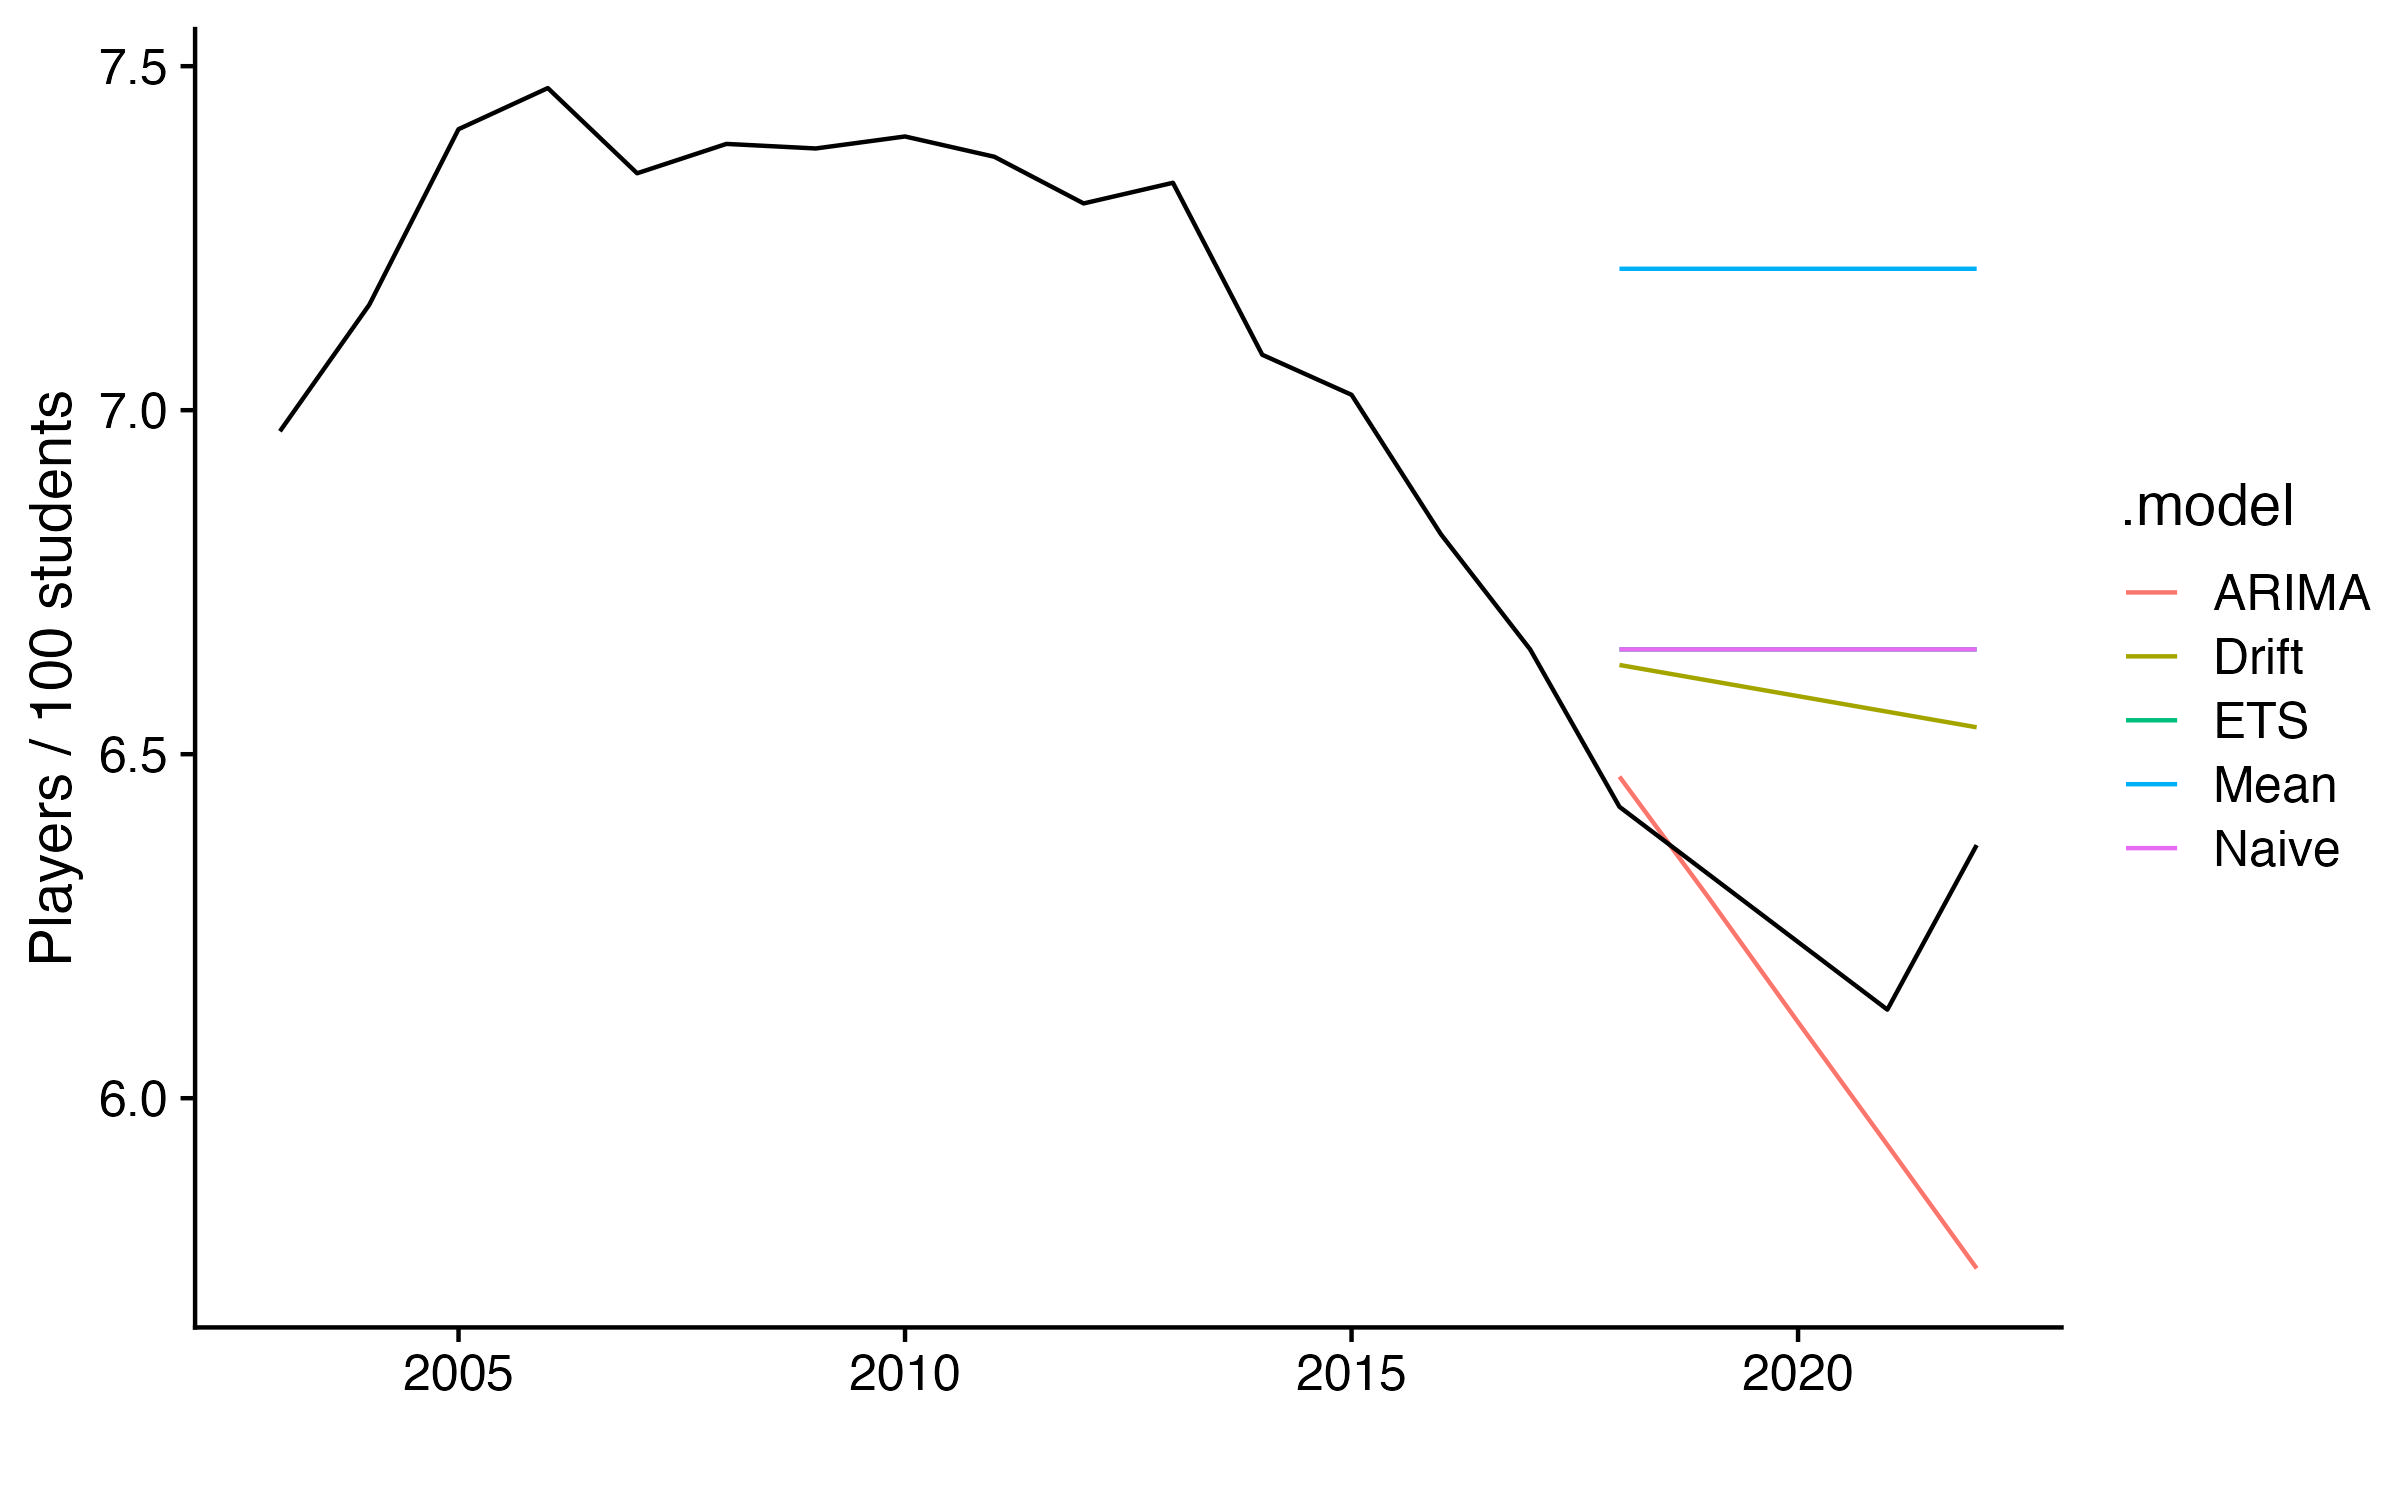
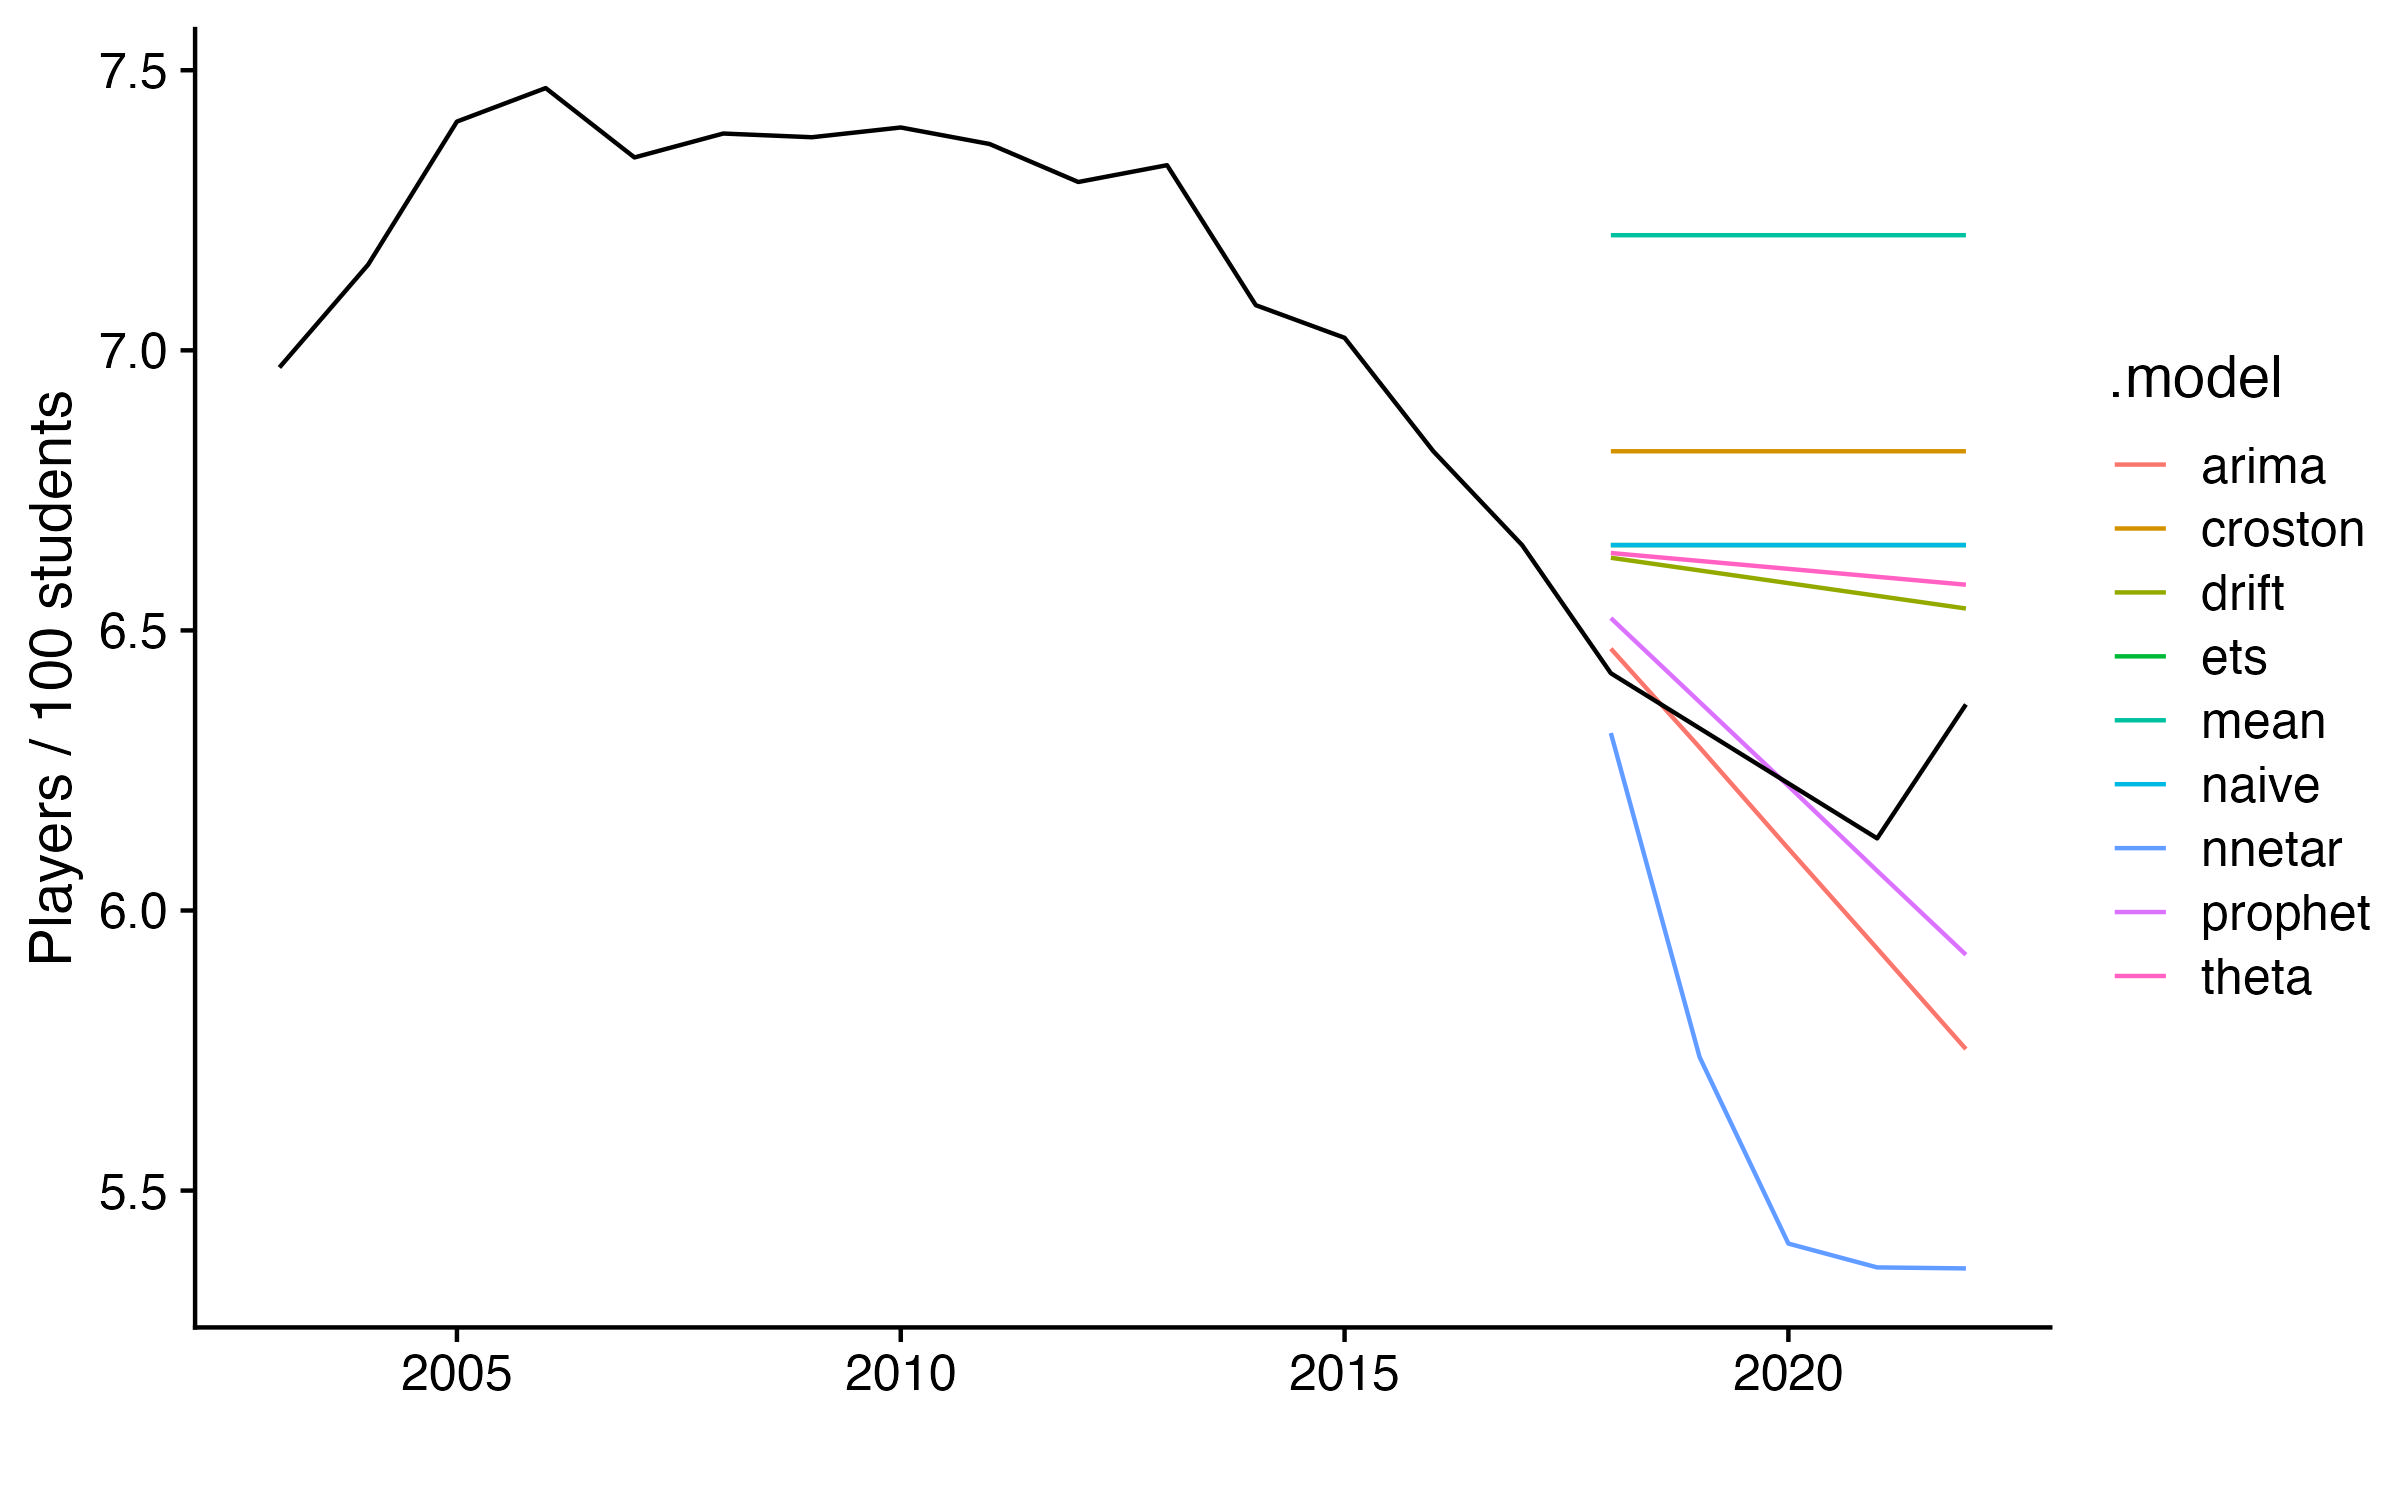
add forecast models

diff --git a/content/post/2024-10-05-forecasting-u-s-high-school-football-participation/index.html b/content/post/2024-10-05-forecasting-u-s-high-school-football-participation/index.html
@@ -77,20 +77,20 @@ Figure 2: The number of players per 100 students is shown with and without outli
 </div>
 <div id="modeling" class="section level1">
 <h1><a href="#modeling">Modeling</a></h1>
-<p>Five models were fit to the data: ARIMA, ETS, Naive, Drift, and Mean. The models forecast the final 5 years of the test data and were compared to the actual values.</p>
+<p>Nine models were fit to the data. Some of the model choices like “Mean” were included knowing that it was an unlikely candidate for a good fit. Other more sophisticated models like ARIMA, ETS, and prophet were included too. The models forecast the final 5 years of the test data and were compared to the actual values.</p>
 <div class="figure" style="text-align: center"><span style="display:block;" id="fig:unnamed-chunk-3"></span>
 <img src="forecast_models_compared.jpg" alt="Actual Data is show in black.  Models are shown in color.  The ARIMA model, shown in red, was the to performing model." width="100%" />
 <p class="caption">
 Figure 3: Actual Data is show in black. Models are shown in color. The ARIMA model, shown in red, was the to performing model.
 </p>
 </div>
-<p>The ARIMA model was the best performing model on several different metrics. When comparing different methods applied to a single time series the mean absolute error (MAE) is “popular as it is easy to both understand and compute. A forecast method that minimises the MAE will lead to forecasts of the median, while minimising the root mean squared error (RMSE) will lead to forecasts of the mean. Consequently, the RMSE is also widely used, despite being more difficult to interpret.”<span class="citation"><a href="#ref-hyndman_forecasting_2021">[1]</a></span> Here, the ARIMA model leads all other methods when measured by either RMSE or MAE. Two other common accuracy metrics are the mean absolute percentage error (MAPE) and mean absolute scaled error (MASE).</p>
+<p>The ARIMA model was the best performing model on several different metrics. When comparing different methods applied to a single time series the mean absolute error (MAE) is “popular as it is easy to both understand and compute. A forecast method that minimises the MAE will lead to forecasts of the median, while minimising the root mean squared error (RMSE) will lead to forecasts of the mean. Consequently, the RMSE is also widely used, despite being more difficult to interpret.”<span class="citation"><a href="#ref-hyndman_forecasting_2021">[1]</a></span> Here, the prophet model leads all other methods when measured by either RMSE or MAE. Two other common accuracy metrics are the mean absolute percentage error (MAPE) and mean absolute scaled error (MASE).</p>
 <div class="datatables html-widget html-fill-item" id="htmlwidget-1" style="width:100%;height:auto;"></div>
-<script type="application/json" data-for="htmlwidget-1">{"x":{"filter":"none","vertical":false,"data":[["1","2","3","4","5"],["ARIMA","Drift","Naive","ETS","Mean"],[0.2945523430253488,0.3054331470708264,0.372910561741164,0.3729266369475432,0.9170776282047581],[0.2012576640528476,0.2899169431600995,0.3578562790011084,0.3578730304275712,0.9110599351942072],[3.192427507720728,4.631618164658096,5.71479845764783,5.715064661146497,14.50597508252588],[1.88479641949751,2.715098672099923,3.351356762139901,3.351513640779863,8.532159567104841]],"container":"<table class=\"display\">\n  <thead>\n    <tr>\n      <th> <\/th>\n      <th>.model<\/th>\n      <th>RMSE<\/th>\n      <th>MAE<\/th>\n      <th>MAPE<\/th>\n      <th>MASE<\/th>\n    <\/tr>\n  <\/thead>\n<\/table>","options":{"dom":"t","columnDefs":[{"targets":2,"render":"function(data, type, row, meta) {\n    return type !== 'display' ? data : DTWidget.formatRound(data, 3, 3, \",\", \".\", null);\n  }"},{"targets":3,"render":"function(data, type, row, meta) {\n    return type !== 'display' ? data : DTWidget.formatRound(data, 3, 3, \",\", \".\", null);\n  }"},{"targets":4,"render":"function(data, type, row, meta) {\n    return type !== 'display' ? data : DTWidget.formatRound(data, 3, 3, \",\", \".\", null);\n  }"},{"targets":5,"render":"function(data, type, row, meta) {\n    return type !== 'display' ? data : DTWidget.formatRound(data, 3, 3, \",\", \".\", null);\n  }"},{"className":"dt-right","targets":[2,3,4,5]},{"orderable":false,"targets":0},{"name":" ","targets":0},{"name":".model","targets":1},{"name":"RMSE","targets":2},{"name":"MAE","targets":3},{"name":"MAPE","targets":4},{"name":"MASE","targets":5}],"order":[],"autoWidth":false,"orderClasses":false},"selection":{"mode":"multiple","selected":null,"target":"row","selectable":null}},"evals":["options.columnDefs.0.render","options.columnDefs.1.render","options.columnDefs.2.render","options.columnDefs.3.render"],"jsHooks":[]}</script>
+<script type="application/json" data-for="htmlwidget-1">{"x":{"filter":"none","vertical":false,"data":[["1","2","3","4","5","6","7","8","9"],["prophet","arima","drift","theta","naive","ets","croston","nnetar","mean"],[0.2073286226781192,0.2945523430253488,0.3054331470708264,0.3303674174206771,0.372910561741164,0.3729266369475432,0.5357105574971085,0.7254262233629041,0.9170776282047581],[0.1309778659251871,0.2012576640528476,0.2899169431600995,0.3154109702955983,0.3578562790011084,0.3578730304275712,0.5253423938502122,0.6576044895750359,0.9110599351942072],[2.062608738203854,3.192427507720728,4.631618164658096,5.03807744603226,5.71479845764783,5.715064661146497,8.376386105107507,10.48867994338972,14.50597508252588],[1.226619686216738,1.88479641949751,2.715098672099923,2.953852566465619,3.351356762139901,3.351513640779863,4.919879536508617,6.158526152181972,8.532159567104841]],"container":"<table class=\"display\">\n  <thead>\n    <tr>\n      <th> <\/th>\n      <th>.model<\/th>\n      <th>RMSE<\/th>\n      <th>MAE<\/th>\n      <th>MAPE<\/th>\n      <th>MASE<\/th>\n    <\/tr>\n  <\/thead>\n<\/table>","options":{"dom":"t","columnDefs":[{"targets":2,"render":"function(data, type, row, meta) {\n    return type !== 'display' ? data : DTWidget.formatRound(data, 3, 3, \",\", \".\", null);\n  }"},{"targets":3,"render":"function(data, type, row, meta) {\n    return type !== 'display' ? data : DTWidget.formatRound(data, 3, 3, \",\", \".\", null);\n  }"},{"targets":4,"render":"function(data, type, row, meta) {\n    return type !== 'display' ? data : DTWidget.formatRound(data, 3, 3, \",\", \".\", null);\n  }"},{"targets":5,"render":"function(data, type, row, meta) {\n    return type !== 'display' ? data : DTWidget.formatRound(data, 3, 3, \",\", \".\", null);\n  }"},{"className":"dt-right","targets":[2,3,4,5]},{"orderable":false,"targets":0},{"name":" ","targets":0},{"name":".model","targets":1},{"name":"RMSE","targets":2},{"name":"MAE","targets":3},{"name":"MAPE","targets":4},{"name":"MASE","targets":5}],"order":[],"autoWidth":false,"orderClasses":false},"selection":{"mode":"multiple","selected":null,"target":"row","selectable":null}},"evals":["options.columnDefs.0.render","options.columnDefs.1.render","options.columnDefs.2.render","options.columnDefs.3.render"],"jsHooks":[]}</script>
 </div>
 <div id="forecast" class="section level1">
 <h1><a href="#forecast">Forecast</a></h1>
-<p>After fitting the model to the data, and then applying to the test set, the model is applied the entire dataset and forecasts the number of players per 100 students for the next five years. The forecast predicts a slight rebound in participation rates. The forecasted number of players per 100 students is shown below. ARIMA modeling it not recommended on small datasets like this one with 30 being the minimum. However, 30 is general advice and deviation may be appropriate depending on the number of parameters and the amount of noise within the data.<span class="citation"><a href="#ref-hyndman_forecasting_2021">[1]</a></span></p>
+<p>After fitting the model to the data, and then applying to the test set, the model is applied the entire dataset and forecasts the number of players per 100 students for the next five years. The forecast predicts a continuing negative trend line though perhaps at a less steep decline. The forecasted number of players per 100 students is shown below.</p>
 <div class="figure" style="text-align: center"><span style="display:block;" id="fig:unnamed-chunk-5"></span>
 <img src="football_participation_forecast.jpg" alt="The forecasted number of players per 100 students is shown for the next five years." width="100%" />
 <p class="caption">
@@ -100,7 +100,7 @@ Figure 4: The forecasted number of players per 100 students is shown for the nex
 </div>
 <div id="conclusion" class="section level1">
 <h1><a href="#conclusion">Conclusion</a></h1>
-<p>High school football participation rates have been in decline since 2005. The bump up in the data from the 2022 data point had a big influence in the ARIMA-based forecast. The forecast shows participation rates recovering with a wide range of possible outcomes in the 80th and 95th confidence intervals. The forecast is predicting a slight rebound in participation rates. Some caveats in about the forecast include the following: (1) it is based on 20 observations, (2) outliers were removed, and (3) missing data was interpolated COVID-19 period. The forecast is provided for discussion purposes only.</p>
+<p>High school football participation rates have been in decline since 2005. The bump up in the data from the 2022 data point was ambiguous and I thought it would be interesting to see how much influence it would have in forecasting into the future. The median forecast shows participation rates continuing to decline with a wide range of possible outcomes in the 80th and 95th confidence intervals. Some caveats about the forecast include the following: (1) it is based on 20 observations, (2) outliers were removed, and (3) missing data was interpolated for the COVID-19 period. The forecast is provided for discussion purposes only.</p>
 </div>
 <div id="acknowledgements" class="section level1">
 <h1><a href="#acknowledge">Acknowledgements</a></h1>
